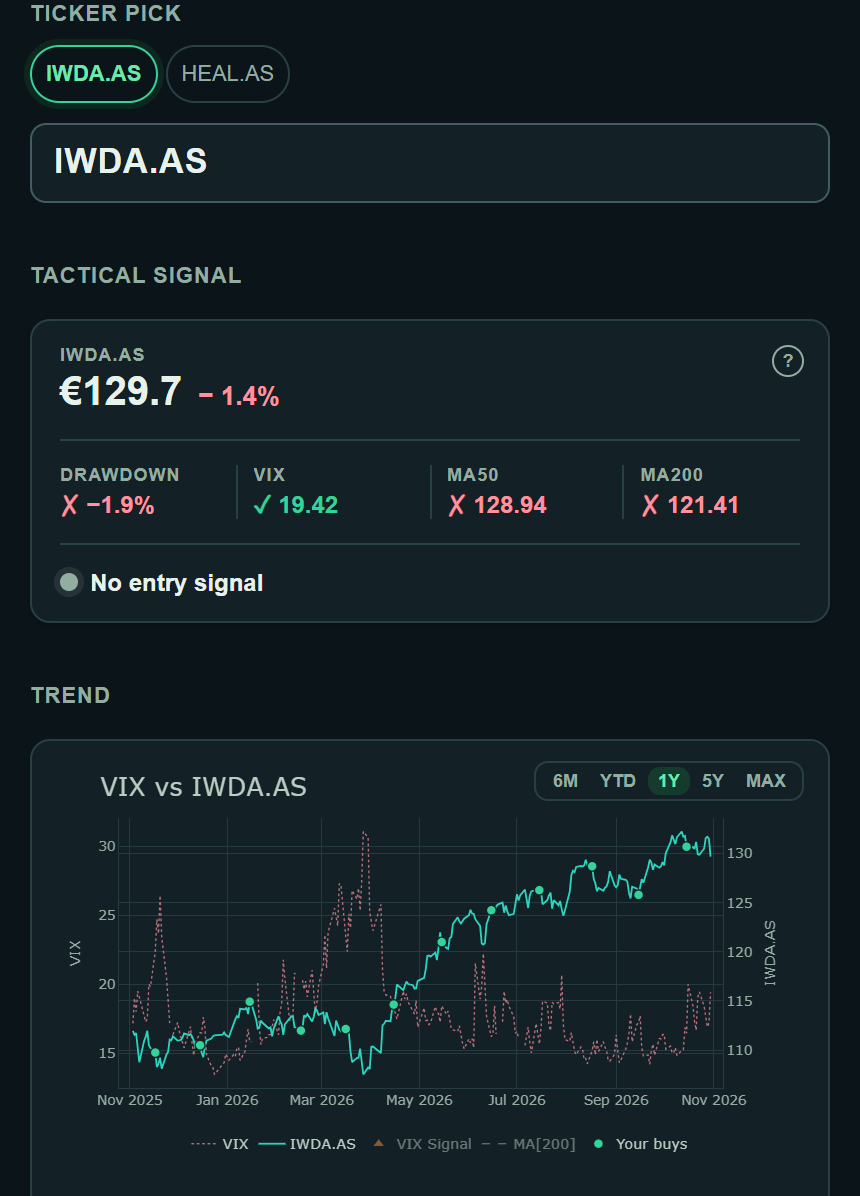
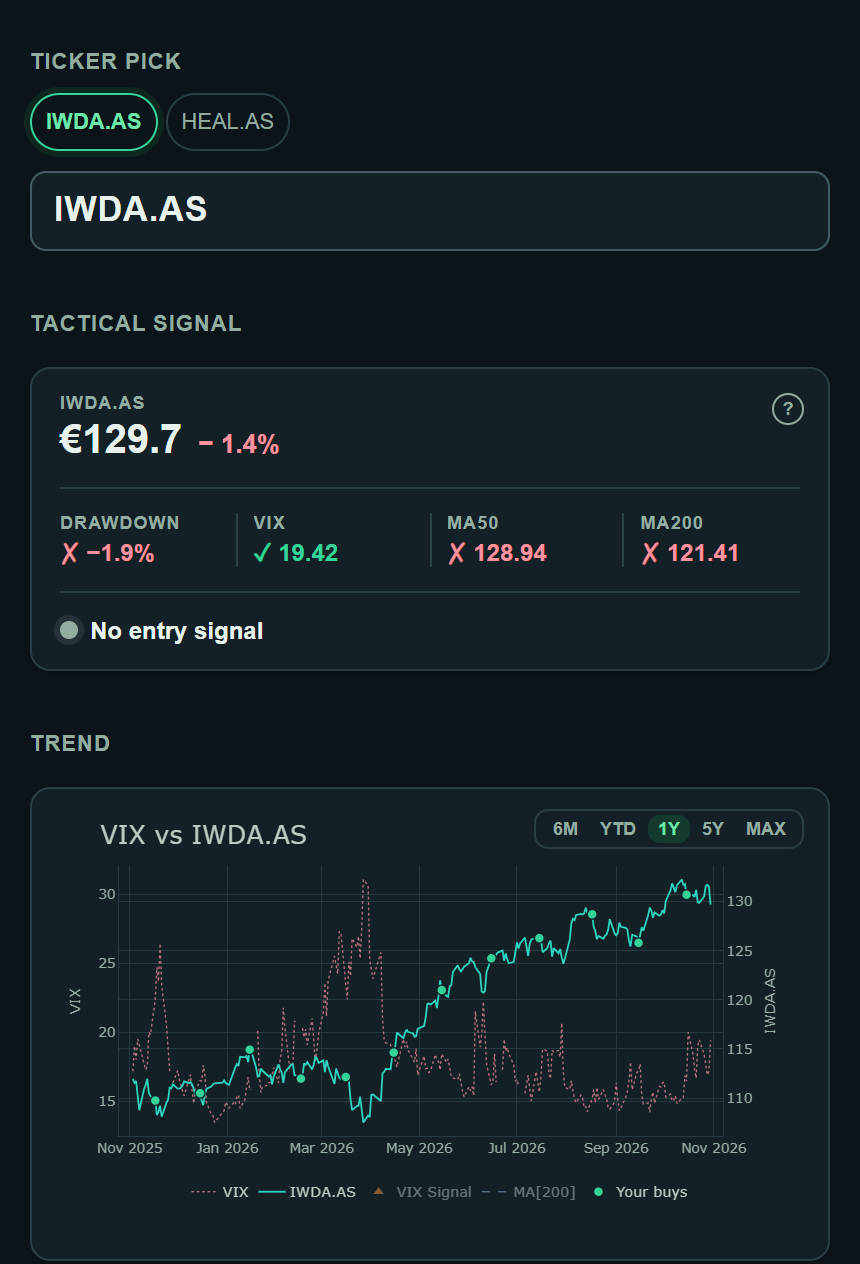
refactor: refine FinCopilot walkthrough copy and screenshots

diff --git a/html/fincopilot.html b/html/fincopilot.html
@@ -21,13 +21,13 @@
   <meta content="image/png" property="og:image:type"/>
   <meta content="1200" property="og:image:width"/>
   <meta content="630" property="og:image:height"/>
-  <meta content="FinCopilot ? a personal engineering project connecting data, financial rules and AI" property="og:image:alt"/>
+  <meta content="FinCopilot: a personal engineering project connecting data, financial rules and AI" property="og:image:alt"/>
   <meta content="Abdul Kousa" property="og:site_name"/>
   <meta content="summary_large_image" name="twitter:card"/>
   <meta content="https://www.abdulkousa.com/images/fincopilot-cover.png" name="twitter:image"/>
-  <meta content="FinCopilot ? a personal engineering project connecting data, financial rules and AI" name="twitter:image:alt"/>
+  <meta content="FinCopilot: a personal engineering project connecting data, financial rules and AI" name="twitter:image:alt"/>
   <meta content="https://www.abdulkousa.com/html/fincopilot.html" property="og:url"/>
-  <link href="../styles/fincopilot.css?v=8" rel="stylesheet"/>
+  <link href="../styles/fincopilot.css?v=9" rel="stylesheet"/>
  </head>
  <body>
   <header class="site-header">
@@ -75,14 +75,13 @@
      FinCopilot
     </h1>
     <p class="case-lead">
-     <em>Connecting financial data, decisions and AI.</em>
+     <em>A clearer view of my money, and a plan for what comes next.</em>
     </p>
     <p class="case-intro">
      A personal engineering project born from a simple question: how can I make better financial decisions when the information I need is scattered across different places?
     </p>
     <p>
-     Built by <a href="https://www.linkedin.com/in/abdul-kousa/" target="_blank" rel="noopener noreferrer">Abdul Kousa</a><br/>
-     <span class="case-collaborator">In collaboration with <a href="https://www.linkedin.com/in/hadeel-moustafa/" target="_blank" rel="noopener noreferrer">Hadeel Moustafa</a>.</span>
+     Built by <a href="https://www.linkedin.com/in/abdul-kousa/" target="_blank" rel="noopener noreferrer">Abdul Kousa</a>.
     </p>
     <nav aria-label="Explore the walkthrough" class="demo-nav">
      <a href="#step-1">
@@ -101,7 +100,7 @@
       05 Tactical
      </a>
      <a href="#step-6">
-      06 Decision
+      06 Plan
      </a>
      <a href="#step-7">
       07 Briefing &amp; chat
@@ -116,7 +115,7 @@
      Bringing everything into one workflow started as a practical solution to a personal problem. Over time, it became an opportunity to explore data integration, financial modelling and applied AI through a system I use myself.
     </p>
     <p>
-     This walkthrough shows the working application with synthetic financial data. Market prices and exchange rates come from public sources.
+     The walkthrough below follows a monthly review in the working application, using synthetic financial data.
     </p>
     <section aria-labelledby="step-title-1" class="demo-step" id="step-1">
      <div class="demo-step-copy">
@@ -127,7 +126,7 @@
        Where do I stand?
       </h2>
       <p>
-       Overview brings financial progress, portfolio value and cash balance together. I designed it as a starting point before looking at individual transactions or holdings.
+       The Overview tab brings financial progress, portfolio value and cash balance together. I designed it as a starting point before looking at individual transactions or holdings.
       </p>
       <p>
        The trend adds context to those figures: how progress has developed over time and how it compares with the target. It helps me see whether a single month fits the wider pattern before deciding where to look closer.
@@ -149,7 +148,7 @@
        What changed?
       </h2>
       <p>
-       Review compares a completed salary cycle with the configured plan, with categories and transactions underneath.
+       The Review tab compares a completed salary cycle with the configured plan, with categories and transactions underneath.
       </p>
       <p>
        The October review flags restaurant purchases rising from two to six. Following that change into its transactions shows how a monthly total becomes something I can investigate.
@@ -171,7 +170,7 @@
        What is coming up?
       </h2>
       <p>
-       Forecast uses configured income, expense schedules and planned allocations to show what a coming month might leave available.
+       The Forecast tab uses configured income, expense schedules and planned allocations to show what a coming month might leave available.
       </p>
       <p>
        A scheduled annual expense sits alongside the regular commitments. It gives the forecast a concrete assumption to inspect, rather than treating every month as identical.
@@ -193,10 +192,10 @@
        How do my investments fit?
       </h2>
       <p>
-       Invest connects holdings, cost basis, returns and a performance benchmark with the wider financial workflow. The portfolio pairs an IWDA.AS core holding with a HEAL.AS tactical position.
+       The Invest tab connects holdings, cost basis, returns and a performance benchmark with the wider financial workflow. The portfolio pairs an IWDA.AS (iShares Core MSCI World) core holding with a HEAL.AS (iShares Healthcare Innovation) tactical position.
       </p>
       <p>
-       Portfolio targets also feed the suggested purchases in Decision, connecting available funds with the allocation rules.
+       Portfolio targets also feed the suggested purchases in the <a href="#step-6">Plan tab, covered below</a>, connecting available funds with the allocation rules.
       </p>
      </div>
      <figure class="demo-screen">
@@ -215,7 +214,7 @@
        What am I watching?
       </h2>
       <p>
-       Tactical puts public market conditions beside an investment-level view. It connects market trends, price history and configured entry signals.
+       The Tactical tab puts public market conditions beside an investment-level view. It connects market trends, price history and configured entry signals.
       </p>
       <p>
        The expandable view follows IWDA.AS, bringing its price history, purchase markers and configured entry signals together.
@@ -240,7 +239,7 @@
        </summary>
        <figure class="demo-screen">
         <div class="demo-capture demo-capture-tactical">
-         <img alt="IWDA.AS price history, entry signals and purchase markers" decoding="async" height="1196" loading="lazy" src="../images/fincopilot/tactical-detail.png" width="860"/>
+         <img alt="IWDA.AS price history, entry signals and purchase markers" decoding="async" height="1264" loading="lazy" src="../images/fincopilot/tactical-detail.png" width="860"/>
          <img alt="" aria-hidden="true" class="demo-tactical-footer" decoding="async" height="134" loading="lazy" src="../images/fincopilot/tactical-footer.png" width="800"/>
         </div>
         <figcaption>
@@ -259,14 +258,14 @@
        What is my next move?
       </h2>
       <p>
-       Decision helps me review where the expected surplus should go: investing, tax, my child, a cash buffer and an opportunity reserve.
+       The Plan tab helps me review where the expected surplus should go: investing, tax, savings for kids, a cash buffer and an opportunity reserve.
       </p>
       <p>
-       Planned amounts sit beside recorded progress, so I can see what has been covered and what still needs attention. It gives me a plan to review before making transfers or placing trades.
+       The priorities, allocation amounts and cash-buffer target are configurable. Planned amounts sit beside recorded progress, so I can see what has been covered and what still needs attention before making transfers or placing trades.
       </p>
      </div>
      <figure class="demo-screen">
-      <img alt="Rule-based allocation plan showing planned amounts and recorded progress" decoding="async" height="1802" loading="lazy" src="../images/fincopilot/decision.png" width="860"/>
+      <img alt="Rule-based allocation plan showing planned amounts and recorded progress" decoding="async" height="1802" loading="lazy" src="../images/fincopilot/plan.png" width="860"/>
       <figcaption>
        A calculated plan, with priorities and progress side by side.
       </figcaption>
@@ -281,10 +280,10 @@
        Talk it through
       </h2>
       <p>
-       The daily briefing draws on supplied financial summaries, holdings and saved news to highlight what may deserve attention and explain the wider context.
+       The FinCopilot tab brings together a daily briefing and chat. The briefing draws on financial summaries, holdings and saved news to highlight what may deserve attention.
       </p>
       <p>
-       When I want to go further, I can ask about the cash buffer, portfolio balance or next surplus. The explanations give me another way to explore the figures and decide what to look at more closely.
+       I can chat with FinCopilot about the cash buffer, portfolio balance or next surplus, then ask follow-up questions to explore the explanation. It gives me another way to understand the figures and decide what to look at more closely.
       </p>
      </div>
      <div class="demo-screen-group">
@@ -331,7 +330,7 @@
        I keep data imports, financial calculations and AI interpretation separate. Transactions become salary-cycle summaries; configured schedules drive forecasts; allocation rules turn the result into a plan. This makes the figures and assumptions easier to inspect when an explanation raises a question.
       </p>
       <p>
-       Python, Dash, Pandas and Plotly form the core. Enable Banking provides the bank integration, Nordnet exports provide trade records, and yfinance supplies public market prices and exchange rates. Gemini and Anthropic are supported for AI interpretation.
+       Gemini and Anthropic support AI interpretation, while <a href="https://enablebanking.com/" target="_blank" rel="noopener noreferrer">Enable Banking</a> connects bank data. The app is built with Python, Dash, Pandas and Plotly, with Nordnet trade imports and yfinance market data.
       </p>
       <p>
        For me, the interesting challenge is connecting data, logic and AI into a system that remains understandable. It is an opportunity to develop my skills in data engineering, system design and applied AI.
@@ -340,27 +339,11 @@
     </section>
     <section class="case-section">
      <div class="body-copy">
-      <h2>
-       Still building
-      </h2>
-      <p>
-       FinCopilot remains an independent personal project, shaped by financial questions I encounter and engineering ideas I want to explore.
-      </p>
-      <p>
-       Some parts are tools I use regularly. Others are experiments, particularly around making financial information easier to understand through AI.
-      </p>
-      <p>
-       I am continuing to refine the experience, improve the underlying design and explore what might be useful beyond my own routines, as part of my ongoing learning.
-      </p>
-      <p>
-       I share selected parts of that journey here: what I have built, the decisions behind it and what I am learning along the way.
-      </p>
-      <p>
-       Interested in the project?
-       <a href="mailto:abdul.kousa@gmail.com">
-        Get in touch.
-       </a>
-      </p>
+      <h2>Still building</h2>
+      <p>FinCopilot remains an independent personal project, shaped by financial questions I encounter and engineering ideas I want to explore.</p>
+      <p>I share selected parts of that journey here: what I have built, the decisions behind it and what I am learning along the way.</p>
+      <p>FinCopilot is still evolving, just as my skills are. Each new challenge gives me a reason to learn something, apply it and improve what I have already built.</p>
+      <p>Interested in the project? <a href="mailto:abdul.kousa@gmail.com">Get in touch.</a></p>
      </div>
     </section>
    </article>

diff --git a/styles/fincopilot.css b/styles/fincopilot.css
@@ -3,7 +3,6 @@
 .fincopilot-reading .case-hero h1 { font-size: clamp(2.3rem, 6vw, 4rem); margin: 4px 0 12px; }
 .fincopilot-reading .case-lead { max-width: 650px; font-size: 1.15rem; }
 .fincopilot-reading .case-intro { max-width: 650px; }
-.fincopilot-reading .case-collaborator { font-size: .85rem; color: var(--muted); }
 .demo-nav { display: flex; flex-wrap: wrap; gap: 10px 22px; padding-block: 18px; border-block: 1px solid var(--line); }
 .demo-nav a { font-size: .85rem; }
 .demo-article > p { max-width: 680px; }

diff --git a/scripts/capture_fincopilot.py b/scripts/capture_fincopilot.py
@@ -63,6 +63,10 @@ def configure_household():
         p = WORK / name
         text = p.read_text(encoding='utf-8').replace("greet + ', Abdul'", "'Synthetic household'").replace('VWCE.DE', 'IWDA.AS')
         p.write_text(text, encoding='utf-8')
+    # Rename the displayed tab while preserving the app's internal callback IDs.
+    for name in ('src/app/layout.py', 'src/app/layouts/decision.py'):
+        p = WORK / name
+        p.write_text(p.read_text(encoding='utf-8').replace('"Decision"', '"Plan"').replace("'Decision'", "'Plan'"), encoding='utf-8')
 
 
 def household_fixtures(prices, asof):
@@ -235,6 +239,7 @@ def serve():
                for day, value in zip(markers.x, markers.y)), 'Trade markers must lie on the market-price line'
     assert position.get_monthly_return_trend(6), 'The portfolio sparkline needs actual synthetic-position history'
     receipt = {'household': 'reconciled generated ledger, seed 73; no private data copied', 'review_month': review_month,
+               'plan_month': str(asof.to_period('M')), 'allocation_tab': 'Plan',
                'holdings': {'core': 'IWDA.AS', 'tactical': 'HEAL.AS'},
                'trades': 'fictional dates and allocations, executed at the matching public closing price',
                'review_checks': {'salary': float(review_row['income']), 'expense': float(review_row['expense']), 'generated': float(review_row['nwc'])},
@@ -244,7 +249,7 @@ def serve():
     app.run_server(host='127.0.0.1', port=PORT, debug=False, use_reloader=False)
 
 
-def capture():
+def capture(tabs=None):
     from playwright.sync_api import sync_playwright
     OUTPUT.mkdir(parents=True, exist_ok=True)
     with (WORK / 'server.log').open('w', encoding='utf-8') as log:
@@ -275,7 +280,7 @@ def capture():
                     .fc-chat-messages { min-height:360px !important; }
                     body { min-height:0 !important; }
                 ''')
-                for tab in ('Overview', 'Review', 'Forecast', 'Invest', 'Tactical', 'Decision', 'FinCopilot'):
+                for tab in tabs or ('Overview', 'Review', 'Forecast', 'Invest', 'Tactical', 'Plan', 'FinCopilot'):
                     page.locator('#tabs-dropdown .Select-control').click()
                     page.locator('#tabs-dropdown .Select-menu-outer').get_by_text(tab, exact=True).click()
                     page.wait_for_timeout(2500)
@@ -307,7 +312,8 @@ def capture():
                         pick = page.locator('.tactical-control-row').bounding_box()
                         assert chart and pick
                         page.screenshot(path=str(OUTPUT / 'tactical.png'), full_page=True, clip={'x':0,'y':0,'width':430,'height':pick['y']-12})
-                        page.screenshot(path=str(OUTPUT / 'tactical-detail.png'), full_page=True, clip={'x':0,'y':pick['y'],'width':430,'height':chart['y']+chart['height']-pick['y']+10})
+                        detail_top = max(0, pick['y'] - 24)
+                        page.screenshot(path=str(OUTPUT / 'tactical-detail.png'), full_page=True, clip={'x':0,'y':detail_top,'width':430,'height':chart['y']+chart['height']-detail_top+20})
                     else:
                         if tab == 'FinCopilot':
                             page.evaluate('document.activeElement.blur();window.scrollTo(0,0)')
@@ -335,10 +341,11 @@ if __name__ == '__main__':
     parser = argparse.ArgumentParser(description=__doc__)
     parser.add_argument('--source', type=Path)
     parser.add_argument('--serve', action='store_true')
+    parser.add_argument('--tab', action='append', choices=('Overview', 'Review', 'Forecast', 'Invest', 'Tactical', 'Plan', 'FinCopilot'), help='Recapture selected tabs only; repeat to select more than one.')
     args = parser.parse_args()
     if args.serve:
         serve()
     else:
         if args.source:
             prepare(args.source.resolve())
-        capture()
+        capture(args.tab)

diff --git a/docs/fincopilot.md b/docs/fincopilot.md
@@ -14,7 +14,7 @@ Screenshots live only in `images/fincopilot/`. Do not restore the earlier person
 
 Run `scripts/capture_fincopilot.py --source PATH_TO_FINANCE_REPO` using the finance repository's Python environment, with Playwright and Chrome available. The app copy and generated files stay in ignored `.cache/fincopilot/`; the source repository is read-only. The script refuses to initialise over an existing data directory. An interrupted capture can be resumed without `--source`; this recreates seeded fixture files and reuses only the public-price download.
 
-Captures are written to `.cache/fincopilot/captures/` for review before copying to the public image directory. Review and Decision show a completed salary cycle; Forecast shows the upcoming month. Inspect every capture and update HTML image dimensions when replacing it.
+Captures are written to `.cache/fincopilot/captures/` for review before copying to the public image directory. Review shows a completed salary cycle; Forecast and Plan show the upcoming month. Inspect every capture and update HTML image dimensions when replacing it.
 
 The two Tactical views use their own source captures and a footer captured from the actual Tactical tab. The chat example keeps a little empty space after the answer and includes the real message composer and all four question suggestions. Its two `.demo-crop` regions remove excess empty space without altering the source PNG.
 
@@ -25,3 +25,5 @@ Keep the article modern, minimal and personal. Explain the problem, the system's
 The social preview source is `images/fincopilot-cover.svg`; render it at 1200 by 630 to update `images/fincopilot-cover.png`. It contains no household figures.
 
 Capture checks reconcile the completed review cycle to one salary and net savings, require a computed restaurant-frequency finding, verify core and tactical positions, and compare each purchase marker against the plotted public closing price. Daily history is valued from the same fictional lots and public prices to populate the Overview portfolio sparkline and drawdown. Only unused top-level disclosures are hidden; category and habit drill-down rows stay visible.
+
+The capture copy labels the allocation tab Plan while keeping internal decision callback IDs intact. Use `--tab Tactical --tab Plan` for a focused recapture. Investment-detail crops include padding above Ticker Pick so the heading stays fully visible.
